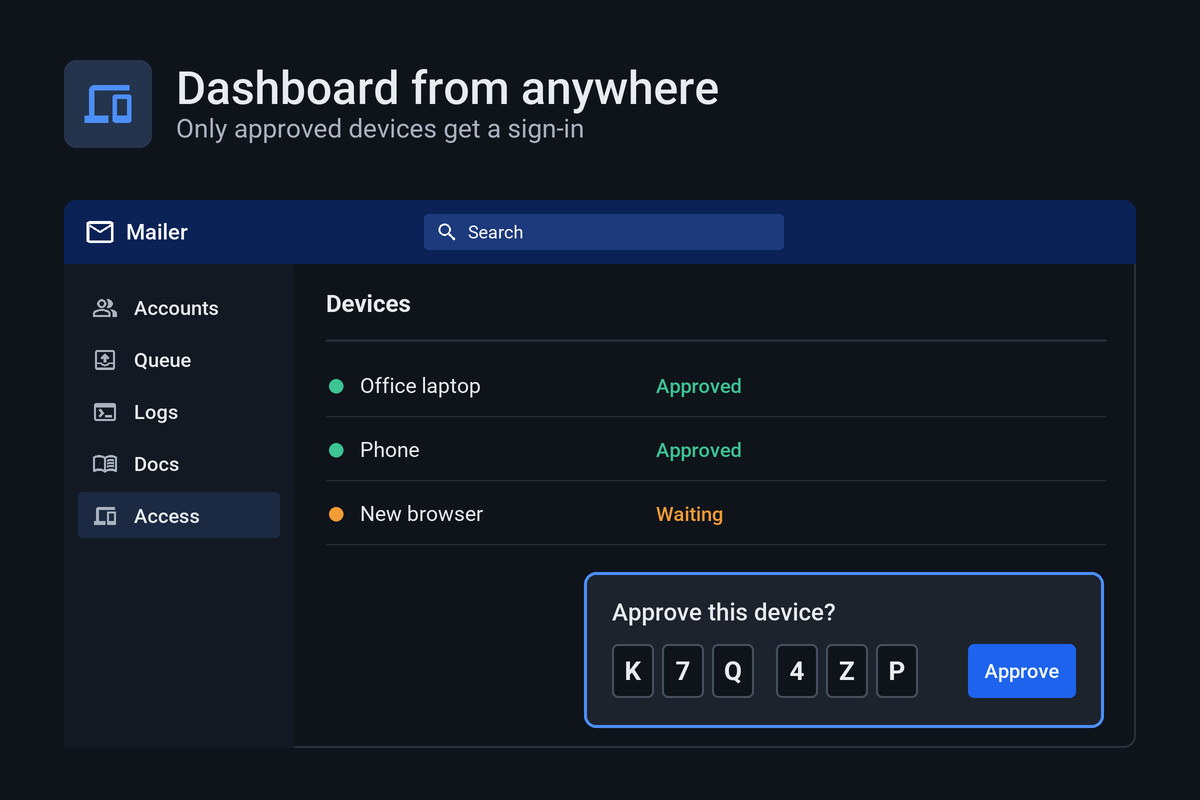
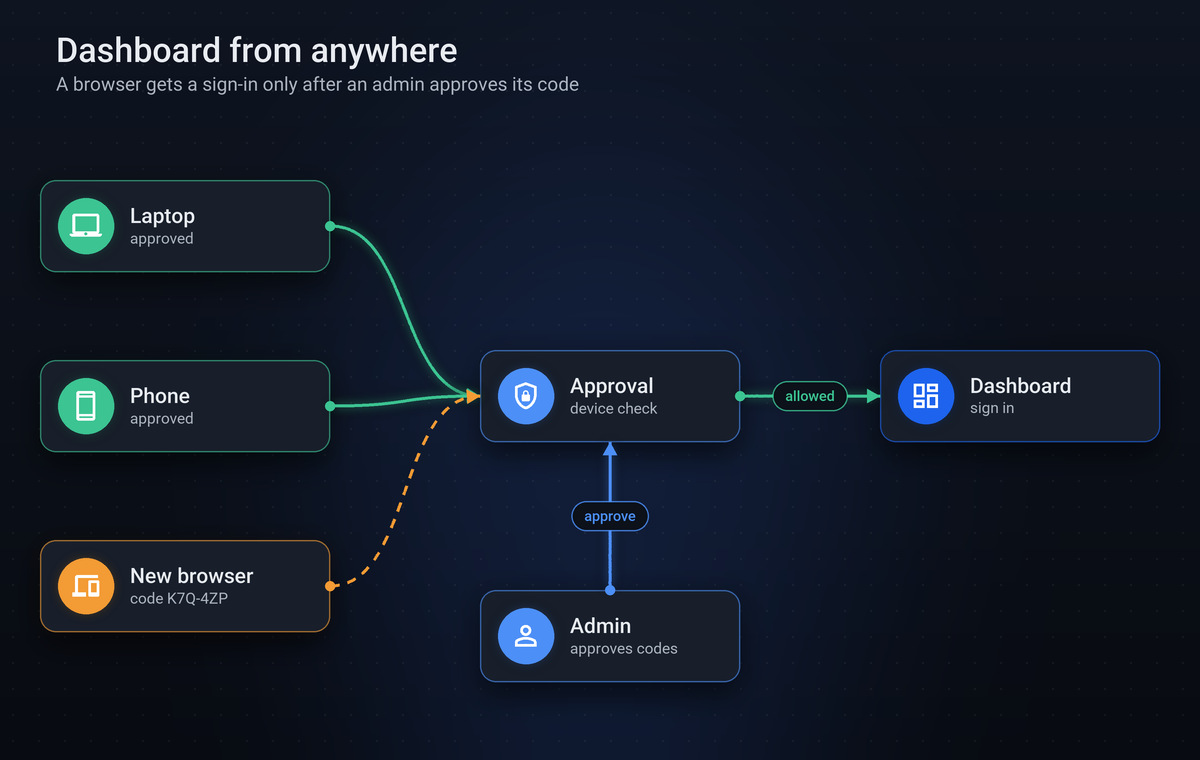
docs(readme): replace the feature graphics with new node diagrams

diff --git a/README.md b/README.md
@@ -2,14 +2,16 @@
 
 Self-hosted mail, zero ports.
 
+<a href="docs/how-it-works.md"><img src="docs/images/flow.jpg" width="100%" alt="How mail moves: senders reach Cloudflare Email Routing, which passes mail through the Cloudflare Tunnel to Mailer; mail apps connect through Tailscale Funnel; replies leave through Cloudflare Email Sending, DKIM-signed. Mailer's computer has no open ports."></a>
+
 <table>
   <tr>
     <td width="50%"><a href="docs/how-it-works.md#what-setup-does"><img src="docs/images/setup.jpg" alt="Sets itself up: connect Cloudflare once and every domain gets Email Routing, the inbound Worker, Email Sending, and DKIM, DMARC and SPF records, including domains added later."></a></td>
-    <td width="50%"><a href="docs/configuration.md#ports"><img src="docs/images/ports.jpg" alt="Zero open ports: the Cloudflare Tunnel and Tailscale Funnel both connect outward, so every mail port on your router stays closed."></a></td>
+    <td width="50%"><a href="docs/configuration.md#ports"><img src="docs/images/ports.jpg" alt="Zero open ports: connections from the internet are refused at the router, while the Cloudflare Tunnel and Tailscale Funnel both connect outward."></a></td>
   </tr>
   <tr>
-    <td width="50%"><a href="docs/how-it-works.md#what-setup-does"><img src="docs/images/apps.jpg" alt="Mail apps set themselves up: Outlook and Thunderbird take the address and password and find the IMAP and SMTP settings."></a></td>
-    <td width="50%"><a href="docs/configuration.md#dashboard-access"><img src="docs/images/dashboard.jpg" alt="Dashboard from anywhere: every browser shows a code that an admin approves before it gets a sign-in."></a></td>
+    <td width="50%"><a href="docs/how-it-works.md#what-setup-does"><img src="docs/images/apps.jpg" alt="Mail apps set themselves up: Outlook asks autodiscover for the domain and finds the IMAP and SMTP servers."></a></td>
+    <td width="50%"><a href="docs/configuration.md#dashboard-access"><img src="docs/images/dashboard.jpg" alt="Dashboard from anywhere: approved devices reach the sign-in, and a new browser waits with its code until an admin approves it."></a></td>
   </tr>
 </table>
 
